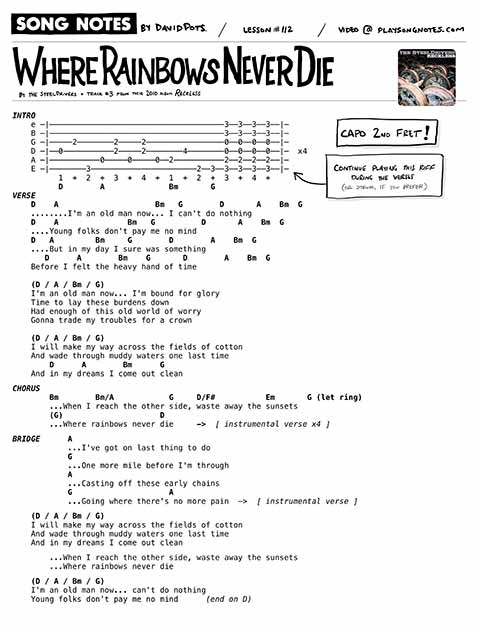
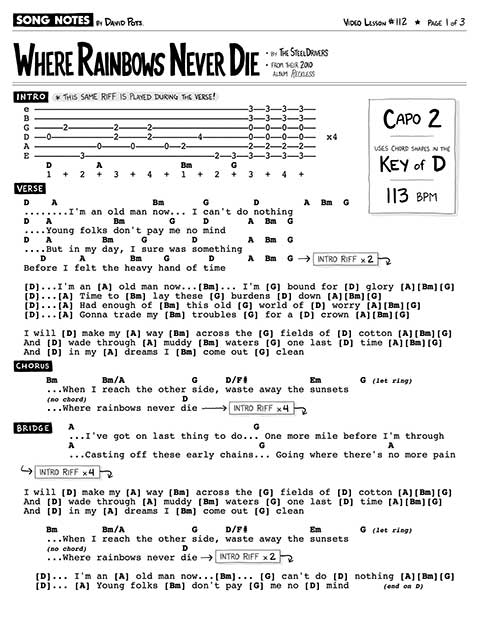
Adds mn for 112 url

Changed region(s): [[0.0, 0.0, 0.9688, 0.9651]]

diff --git a/_lessons/112 [Steeldrivers] Where Rainbows Never Die.md b/_lessons/112 [Steeldrivers] Where Rainbows Never Die.md
@@ -13,8 +13,9 @@ hidden_tags: [Chris Stapleton]
 slug: "112"
 redirect_from:
   - /songs/steeldrivers-where-rainbows-never-die/
-pdf_version: copyright
+pdf_version: musicnotes
 pdf_numpages: 3
+musicnotes_url: https://www.musicnotes.com/l/299Mm
 patreon_lesson_available: true
 patreon_lesson_url: https://www.patreon.com/posts/31705934
 ---
@@ -40,33 +41,19 @@ Video timestamps:
 
 ## Capo 2nd fret
 
-If you want to play along with the Steeldrivers version, add a capo to the 2nd fret.
+If you want to play along with the SteelDrivers version, add a capo to the 2nd fret.
 
 ## Main riff
 
 Here's the main riff you hear, which is repeated in the intro and verse.
 
-    e –|––––––––––––––––––––––––––––––––––––––3––3––3––3––|–
-    B –|––––––––––––––––––––––––––––––––––––––3––3––3––3––|–
-    G –|–––––2––––––––2–––––2–––––––––––––––––0––0––0––0––|–
-    D –|––0–––––––––––2–––––2––––––––4––––––––0––0––0––0––|–
-    A –|–––––––––––0–––––0–––––0––2–––––––––––2––2––2––2––|–
-    E –|––––––––3–––––––––––––––––––––––2––3––3––3––3––3––|–
-          1  +  2  +  3  +  4  +  1  +  2  +  3  +  4  +  
-          D        A              Bm       G
+    See song sheet for the full tab.
 
 ## Alternate ending to the riff
 
 And, here's the version of the riff with the special ending, heard on the 3rd playthrough of the intro. For the 4th playthrough, they go back to the "main" riff shown above.
 
-    e –|–––––––––––––––––––––––––––––––––––––––––3––––––––|–
-    B –|–––––––––––––––––––––––––––––––––––––––––3––––––––|–
-    G –|–––––2––––––––2–––––2––––––––0–––––––––––0––––––––|–
-    D –|––0–––––––––––2–––––2–––––––––––4––0–––––0–––––0––|–
-    A –|–––––––––––0–––––0–––––0––2––––––––––––––2––0h2–––|–
-    E –|––––––––3–––––––––––––––––––––––––––––3––3––––––––|–
-          1  +  2  +  3  +  4  +  1  +  2  +  3  +  4  +  
-          D        A              Bm       G
+    See song sheet for the full tab.
 
 ## How to practice the riff when learning it
 
@@ -109,97 +96,25 @@ But for the intro, I recommend the following voicings / finger positions:
     A –––x––––    x--- don't play this string (mute it)
     E –––3––––    <--- left hand middle finger
          G    
+
 ## Strumming patterns
 
-Here's three ways you could strum this.
+Here's three ways you could strum this song, depending on your preference / taste / ability.
 
-Continuous down-up strumming:
+### Continuous down-up strumming:
 
     D     A         Bm    G   
     1 + 2 + 3 + 4 + 1 + 2 + 3 + 4 +
     d u d u d u d u d u d u d u d u
 
-Continuous down strums:
+### Continuous down strums:
 
     D     A         Bm    G   
     1 + 2 + 3 + 4 + 1 + 2 + 3 + 4 +
     d d d d d d d d d d d d d d d d
 
-Conventional strumming pattern:
+### Conventional strumming pattern:
 
     D     A         Bm    G   
     1 + 2 + 3 + 4 + 1 + 2 + 3 + 4 +
     d   d u   u d u d   d u   u d u
-
-## Lyrics w/ chords
-
-Capo 2nd fret
-
-    INTRO
-        e –|––––––––––––––––––––––––––––––––––––––3––3––3––3––|–
-        B –|––––––––––––––––––––––––––––––––––––––3––3––3––3––|–
-        G –|–––––2––––––––2–––––2–––––––––––––––––0––0––0––0––|–
-        D –|––0–––––––––––2–––––2––––––––4––––––––0––0––0––0––|–  x4
-        A –|–––––––––––0–––––0–––––0––2–––––––––––2––2––2––2––|–
-        E –|––––––––3–––––––––––––––––––––––2––3––3––3––3––3––|–
-              1  +  2  +  3  +  4  +  1  +  2  +  3  +  4  +  
-              D        A              Bm       G
-    VERSE
-        D    A                     Bm   G        D       A    Bm  G
-        ........I'm an old man now... I can't do nothing
-        D    A               Bm   G          D       A    Bm  G
-        ....Young folks don't pay me no mind
-        D   A         Bm     G        D        A    Bm  G
-        ....But in my day I sure was something
-           D      A        Bm    G       D        A    Bm  G
-        Before I felt the heavy hand of time
-
-        (D / A / Bm / G)
-        I'm an old man now... I'm bound for glory
-        Time to lay these burdens down
-        Had enough of this old world of worry
-        Gonna trade my troubles for a crown
-
-        (D / A / Bm / G)
-        I will make my way across the fields of cotton
-        And wade through muddy waters one last time
-            D      A        Bm      G
-        And in my dreams I come out clean
-
-    CHORUS
-            Bm        Bm/A            G     D/F#           Em       G (let ring)
-            ...When I reach the other side, waste away the sunsets
-            (G)                     D
-            ...Where rainbows never die
-
-        [ instrumental verse x4 ]
-
-    BRIDGE
-                A
-                ...I've got on last thing to do
-                G
-                ...One more mile before I'm through
-                A
-                ...Casting off these early chains
-                G                     A
-                ...Going where theres no more pain
-
-        [ instrumental verse ]
-
-        (D / A / Bm / G)
-        I will make my way across the fields of cotton
-        And wade through muddy waters one last time
-        And in my dreams I come out clean
-
-            Bm        Bm/A            G     D/F#           Em       G (let ring)
-            ...When I reach the other side, waste away the sunsets
-            (G)                     D
-            ...Where rainbows never die
-
-        (D / A / Bm / G)
-        I'm an old man now... can't do nothing
-        Young folks don't pay me no mind      (end on D)
-
-## Good luck!
-
-Thanks for reading! I hope this helped you. Questions? Comments? Requests? Let me know!

diff --git a/backlog.md b/backlog.md
@@ -18,6 +18,7 @@ permalink: /backlog/
 
 Here's the songs I've most recently re-listed for purchase at Musicnotes.com. Each arrangement is officially licensed & legal, and also uses my latest sheet music formatting.
 
+- May 31 - [Where Rainbows Never Die](https://playsongnotes.com/lessons/112/)
 - May 23 - [Total Eclipse of the Heart](https://playsongnotes.com/lessons/93/)
 - May 16 - [Lookin' Out My Backdoor](https://playsongnotes.com/lessons/261/)
 - May 9  - [American Girl](https://playsongnotes.com/lessons/113/)
@@ -86,7 +87,6 @@ Here's the songs I've most recently re-listed for purchase at Musicnotes.com. Ea
     Running Down a Dream        XXXXXX
     Say It Ain't So             XXXX
     Surf Rider                  XXXXXX
-    Where Rainbows Never Die    XXXXXX
     Year Clayton Delaney Died   XXX
 
 <br />
